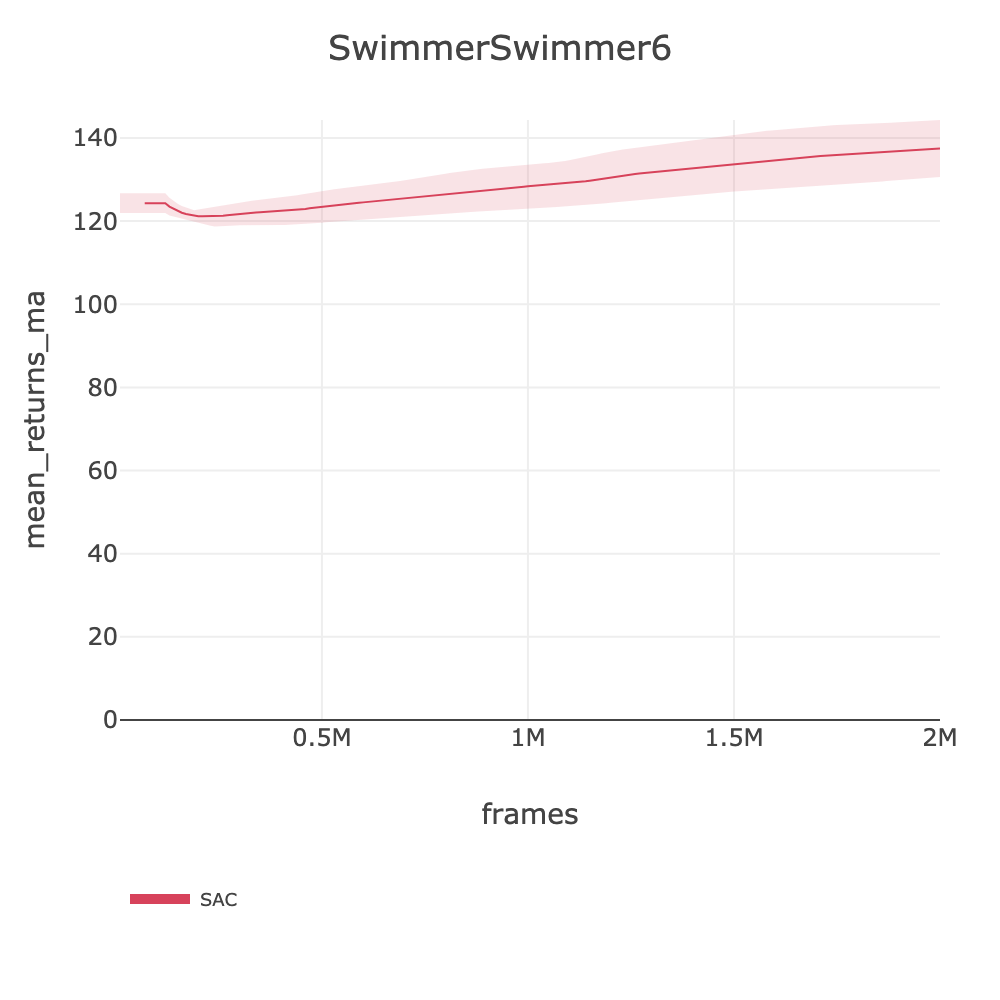
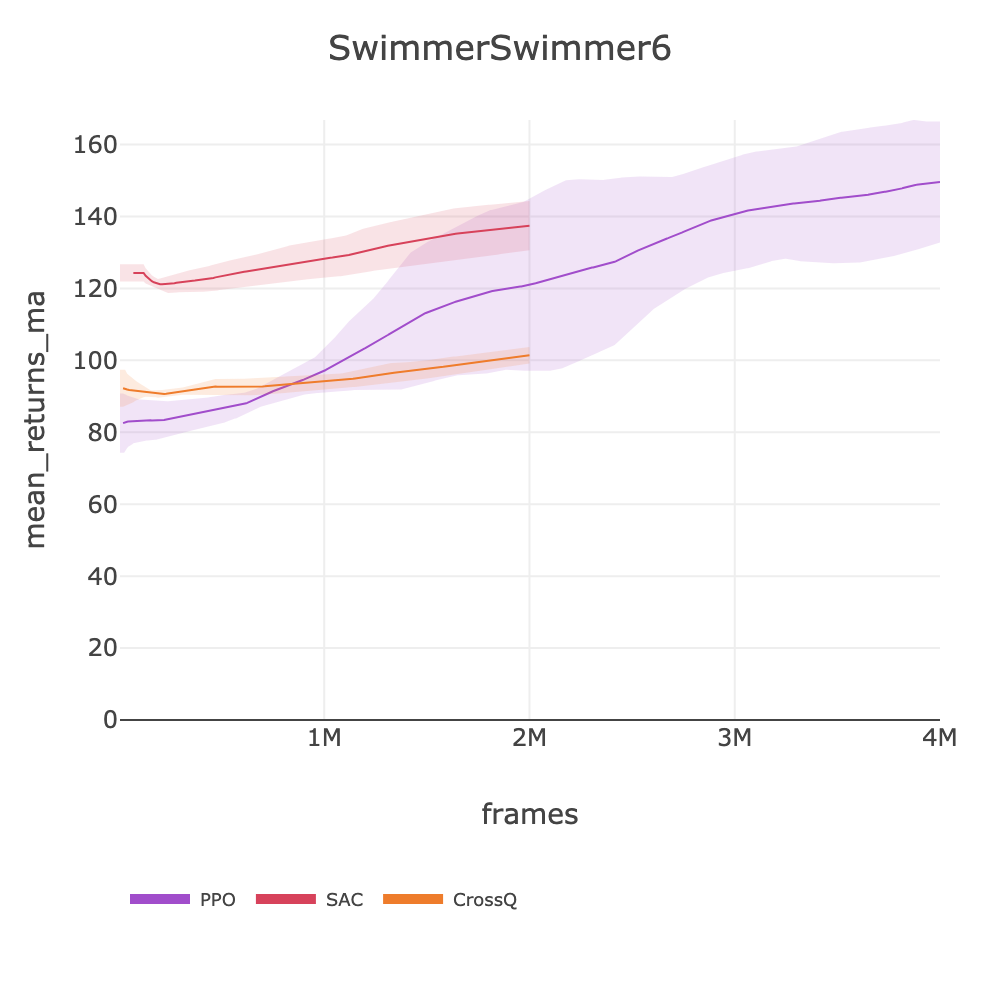
feat: Phase 5 Manipulation (8 envs) + SwimmerSwimmer6 PPO update
Manipulation: AeroCubeRotateZAxis (-5.71), AlohaHandOver (0.05),
LeapCubeReorient (-10.19), LeapCubeRotateZAxis (-0.51),
PandaOpenCabinet (1556.88), PandaPickCube (705.30),
PandaPickCubeOrientation (389.02), PandaRobotiqPushCube (0.20)

Panda tasks show strong PPO learning. Plots are 1-session (pre-fix);
4-session reruns pending.

SwimmerSwimmer6 PPO updated: 149.60 (4-session, env error envelope ok)

diff --git a/docs/BENCHMARKS.md b/docs/BENCHMARKS.md
@@ -855,7 +855,7 @@ source .env && slm-lab run-remote --gpu -s env=playground/CartpoleBalance -s max
 | playground/ReacherHard | PPO | 259.40 | ~225 | ~300 (16e) | 4M | ~3.7h | [ppo_playground_arc_reacherhard_2026_03_07_124346](https://huggingface.co/datasets/SLM-Lab/benchmark-dev/tree/main/data/ppo_playground_arc_reacherhard_2026_03_07_124346) |
 | | CrossQ | 921.27 | | ~670 (easy/16e) | 2M | ~0.8h | [crossq_playground_arc_easy_reacherhard_2026_03_07_222029](https://huggingface.co/datasets/SLM-Lab/benchmark-dev/tree/main/data/crossq_playground_arc_easy_reacherhard_2026_03_07_222029) |
 | | SAC | 958.57 | | ~481 (fast/64e) | 2M | ~1.2h | [sac_playground_arc_fast_reacherhard_2026_03_06_181908](https://huggingface.co/datasets/SLM-Lab/benchmark-dev/tree/main/data/sac_playground_arc_fast_reacherhard_2026_03_06_181908) |
-| playground/SwimmerSwimmer6 | PPO | 114.97 | ~300 | ~300 (16e) | 4M | ~3.7h | [ppo_playground_arc_swimmerswimmer6_2026_03_07_133515](https://huggingface.co/datasets/SLM-Lab/benchmark-dev/tree/main/data/ppo_playground_arc_swimmerswimmer6_2026_03_07_133515) |
+| playground/SwimmerSwimmer6 | PPO | 149.60 | ~300 | ~360 (256e) | 4M | ~3.1h | [ppo_playground_arc_swimmerswimmer6_2026_03_09_012155](https://huggingface.co/datasets/SLM-Lab/benchmark-dev/tree/main/data/ppo_playground_arc_swimmerswimmer6_2026_03_09_012155) |
 | | CrossQ | 101.43 | | ~300 (easy/16e) | 2M | ~1.9h | [crossq_playground_arc_easy_swimmerswimmer6_2026_03_07_185101](https://huggingface.co/datasets/SLM-Lab/benchmark-dev/tree/main/data/crossq_playground_arc_easy_swimmerswimmer6_2026_03_07_185101) |
 | | SAC | 137.46 | | ~518 (fast/64e) | 2M | ~1.1h | [sac_playground_arc_fast_swimmerswimmer6_2026_03_06_221116](https://huggingface.co/datasets/SLM-Lab/benchmark-dev/tree/main/data/sac_playground_arc_fast_swimmerswimmer6_2026_03_06_221116) |
 | playground/WalkerRun | PPO | 59.63 | ~678 | ~355 (256e) | 4M | ~3.1h | [ppo_playground_arc_walkerrun_2026_03_08_173102](https://huggingface.co/datasets/SLM-Lab/benchmark-dev/tree/main/data/ppo_playground_arc_walkerrun_2026_03_08_173102) |
@@ -954,34 +954,40 @@ source .env && slm-lab run-remote --gpu -s env=playground/CartpoleBalance -s max
 
 | Environment | Algo | Score | D4PG Target | FPS | Frames | Wall Clock | HF Data |
 |-------------|------|-------|-------------|-----|--------|------------|---------|
-| playground/AeroCubeRotateZAxis | PPO | - | N/A | - | - | - | - |
+| playground/AeroCubeRotateZAxis | PPO loco | -5.71 | N/A | ~221 (loco/64e) | 4M | ~5.0h | [ppo_playground_arc_loco_aerocuberotatezaxis_2026_03_08_093426](https://huggingface.co/datasets/SLM-Lab/benchmark-dev/tree/main/data/ppo_playground_arc_loco_aerocuberotatezaxis_2026_03_08_093426) |
 | | SAC | - | | - | - | - | - |
 | | CrossQ | - | | - | - | - | - |
-| playground/AlohaHandOver | PPO | - | N/A | - | - | - | - |
+| playground/AlohaHandOver | PPO loco | 0.05 | N/A | ~245 (loco/64e) | 4M | ~4.5h | [ppo_playground_arc_loco_alohahandover_2026_03_08_093402](https://huggingface.co/datasets/SLM-Lab/benchmark-dev/tree/main/data/ppo_playground_arc_loco_alohahandover_2026_03_08_093402) |
 | | SAC | - | | - | - | - | - |
 | | CrossQ | - | | - | - | - | - |
 | playground/AlohaSinglePegInsertion | PPO loco | 76.54 | N/A | ~412 (loco/64e) | 4M | ~2.7h | [ppo_playground_arc_loco_alohasinglepeginsertion_2026_03_08_093428](https://huggingface.co/datasets/SLM-Lab/benchmark-dev/tree/main/data/ppo_playground_arc_loco_alohasinglepeginsertion_2026_03_08_093428) |
 | | SAC | - | | - | - | - | - |
 | | CrossQ | - | | - | - | - | - |
-| playground/LeapCubeReorient | PPO | - | N/A | - | - | - | - |
+| playground/LeapCubeReorient | PPO loco | -10.19 | N/A | ~240 (loco/64e) | 4M | ~4.6h | [ppo_playground_arc_loco_leapcubereorient_2026_03_08_093428](https://huggingface.co/datasets/SLM-Lab/benchmark-dev/tree/main/data/ppo_playground_arc_loco_leapcubereorient_2026_03_08_093428) |
 | | SAC | - | | - | - | - | - |
 | | CrossQ | - | | - | - | - | - |
-| playground/LeapCubeRotateZAxis | PPO | - | N/A | - | - | - | - |
+| playground/LeapCubeRotateZAxis | PPO loco | -0.51 | N/A | ~122 (loco/64e) | 2M | ~4.5h | [ppo_playground_arc_loco_leapcuberotatezaxis_2026_03_08_094515](https://huggingface.co/datasets/SLM-Lab/benchmark-dev/tree/main/data/ppo_playground_arc_loco_leapcuberotatezaxis_2026_03_08_094515) |
 | | SAC | - | | - | - | - | - |
 | | CrossQ | - | | - | - | - | - |
-| playground/PandaOpenCabinet | PPO | - | N/A | - | - | - | - |
+| playground/PandaOpenCabinet | PPO loco | 1556.88 | N/A | ~279 (loco/64e) | 4M | ~4.0h | [ppo_playground_arc_loco_pandaopencabinet_2026_03_08_093515](https://huggingface.co/datasets/SLM-Lab/benchmark-dev/tree/main/data/ppo_playground_arc_loco_pandaopencabinet_2026_03_08_093515) |
 | | SAC | - | | - | - | - | - |
 | | CrossQ | - | | - | - | - | - |
-| playground/PandaPickCube | PPO | - | N/A | - | - | - | - |
+| playground/PandaPickCube | PPO loco | 705.30 | N/A | ~249 (loco/64e) | 4M | ~4.5h | [ppo_playground_arc_loco_pandapickcube_2026_03_08_093457](https://huggingface.co/datasets/SLM-Lab/benchmark-dev/tree/main/data/ppo_playground_arc_loco_pandapickcube_2026_03_08_093457) |
 | | SAC | - | | - | - | - | - |
 | | CrossQ | - | | - | - | - | - |
 | playground/PandaPickCubeCartesian | PPO | - | N/A | - | - | - | - |
 | | SAC | - | | - | - | - | - |
 | | CrossQ | - | | - | - | - | - |
-| playground/PandaPickCubeOrientation | PPO | - | N/A | - | - | - | - |
+| playground/PandaPickCubeOrientation | PPO loco | 389.02 | N/A | ~244 (loco/64e) | 4M | ~4.6h | [ppo_playground_arc_loco_pandapickcubeorientation_2026_03_08_093522](https://huggingface.co/datasets/SLM-Lab/benchmark-dev/tree/main/data/ppo_playground_arc_loco_pandapickcubeorientation_2026_03_08_093522) |
 | | SAC | - | | - | - | - | - |
 | | CrossQ | - | | - | - | - | - |
-| playground/PandaRobotiqPushCube | PPO | - | N/A | - | - | - | - |
+| playground/PandaRobotiqPushCube | PPO loco | 0.20 | N/A | ~297 (loco/64e) | 4M | ~3.7h | [ppo_playground_arc_loco_pandarobotiqpushcube_2026_03_08_093600](https://huggingface.co/datasets/SLM-Lab/benchmark-dev/tree/main/data/ppo_playground_arc_loco_pandarobotiqpushcube_2026_03_08_093600) |
 | | SAC | - | | - | - | - | - |
 | | CrossQ | - | | - | - | - | - |
+
+| | | |
+|---|---|---|
+| ![AeroCubeRotateZAxis](plots/AeroCubeRotateZAxis_multi_trial_graph_mean_returns_ma_vs_frames.png) | ![AlohaHandOver](plots/AlohaHandOver_multi_trial_graph_mean_returns_ma_vs_frames.png) | ![AlohaSinglePegInsertion](plots/AlohaSinglePegInsertion_multi_trial_graph_mean_returns_ma_vs_frames.png) |
+| ![LeapCubeReorient](plots/LeapCubeReorient_multi_trial_graph_mean_returns_ma_vs_frames.png) | ![LeapCubeRotateZAxis](plots/LeapCubeRotateZAxis_multi_trial_graph_mean_returns_ma_vs_frames.png) | ![PandaOpenCabinet](plots/PandaOpenCabinet_multi_trial_graph_mean_returns_ma_vs_frames.png) |
+| ![PandaPickCube](plots/PandaPickCube_multi_trial_graph_mean_returns_ma_vs_frames.png) | ![PandaPickCubeOrientation](plots/PandaPickCubeOrientation_multi_trial_graph_mean_returns_ma_vs_frames.png) | ![PandaRobotiqPushCube](plots/PandaRobotiqPushCube_multi_trial_graph_mean_returns_ma_vs_frames.png) |
 
